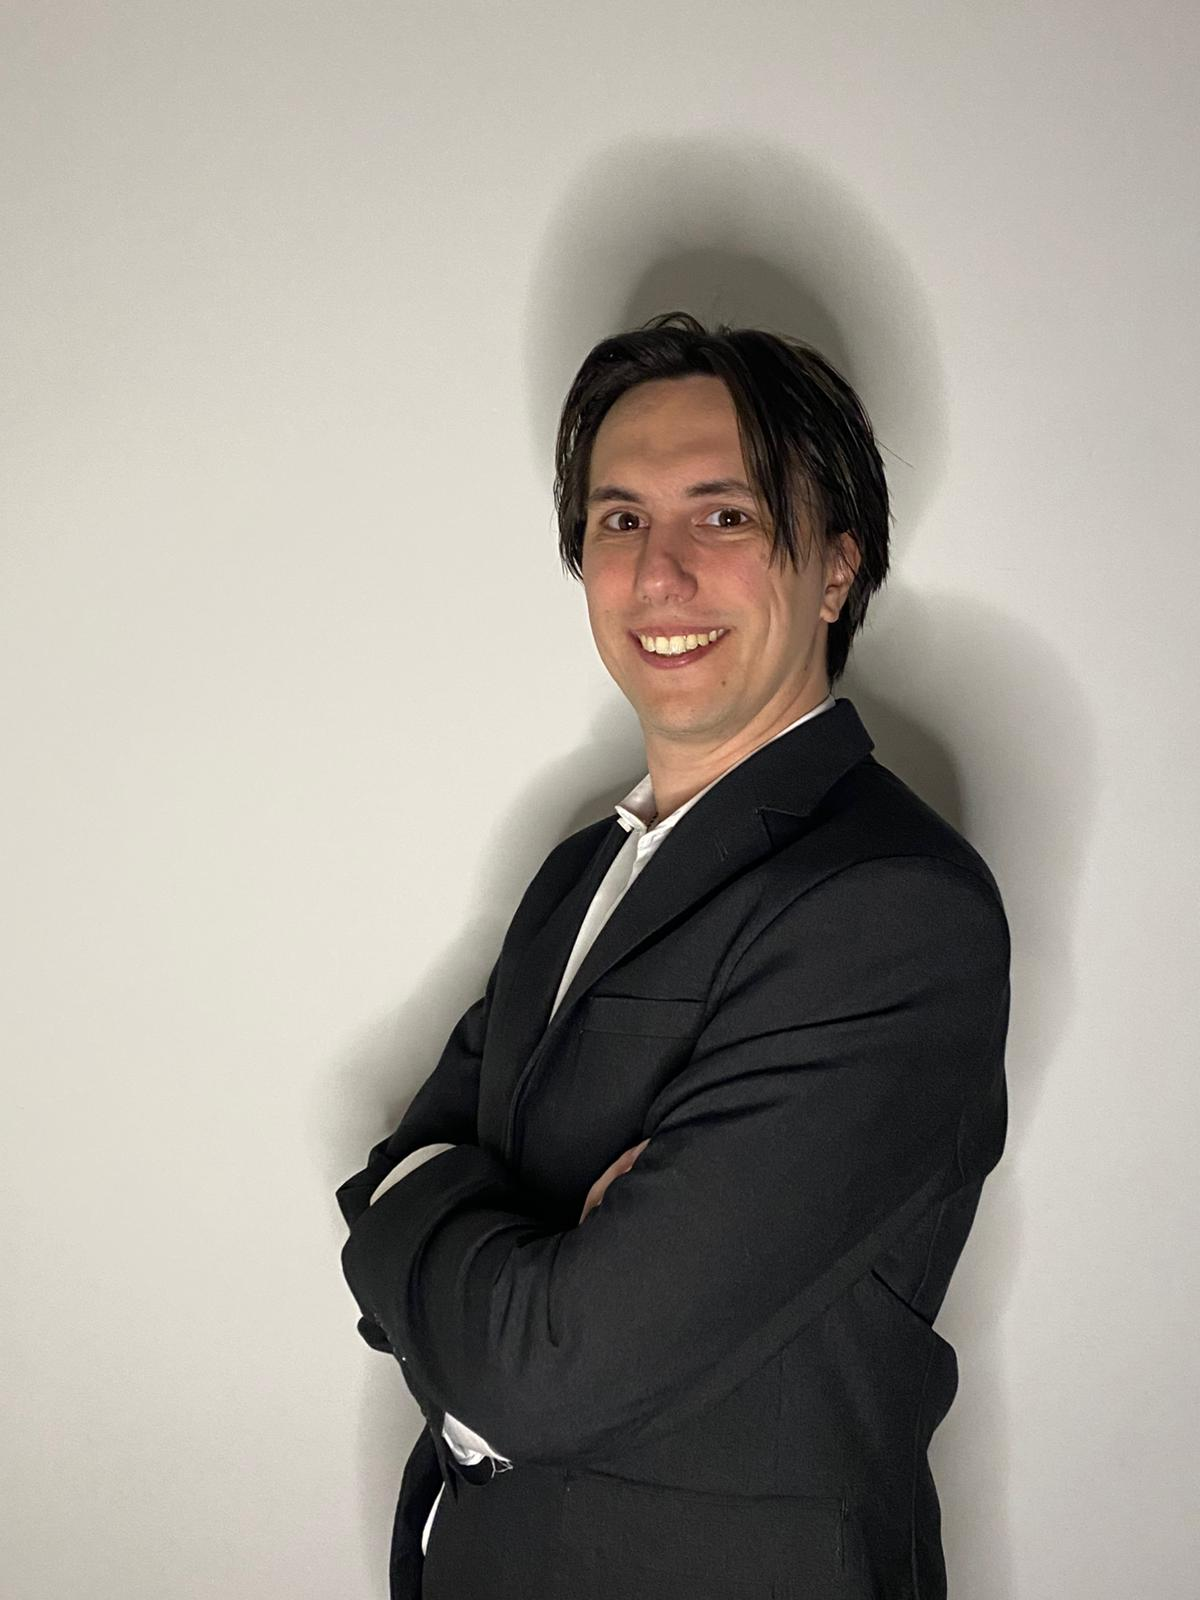
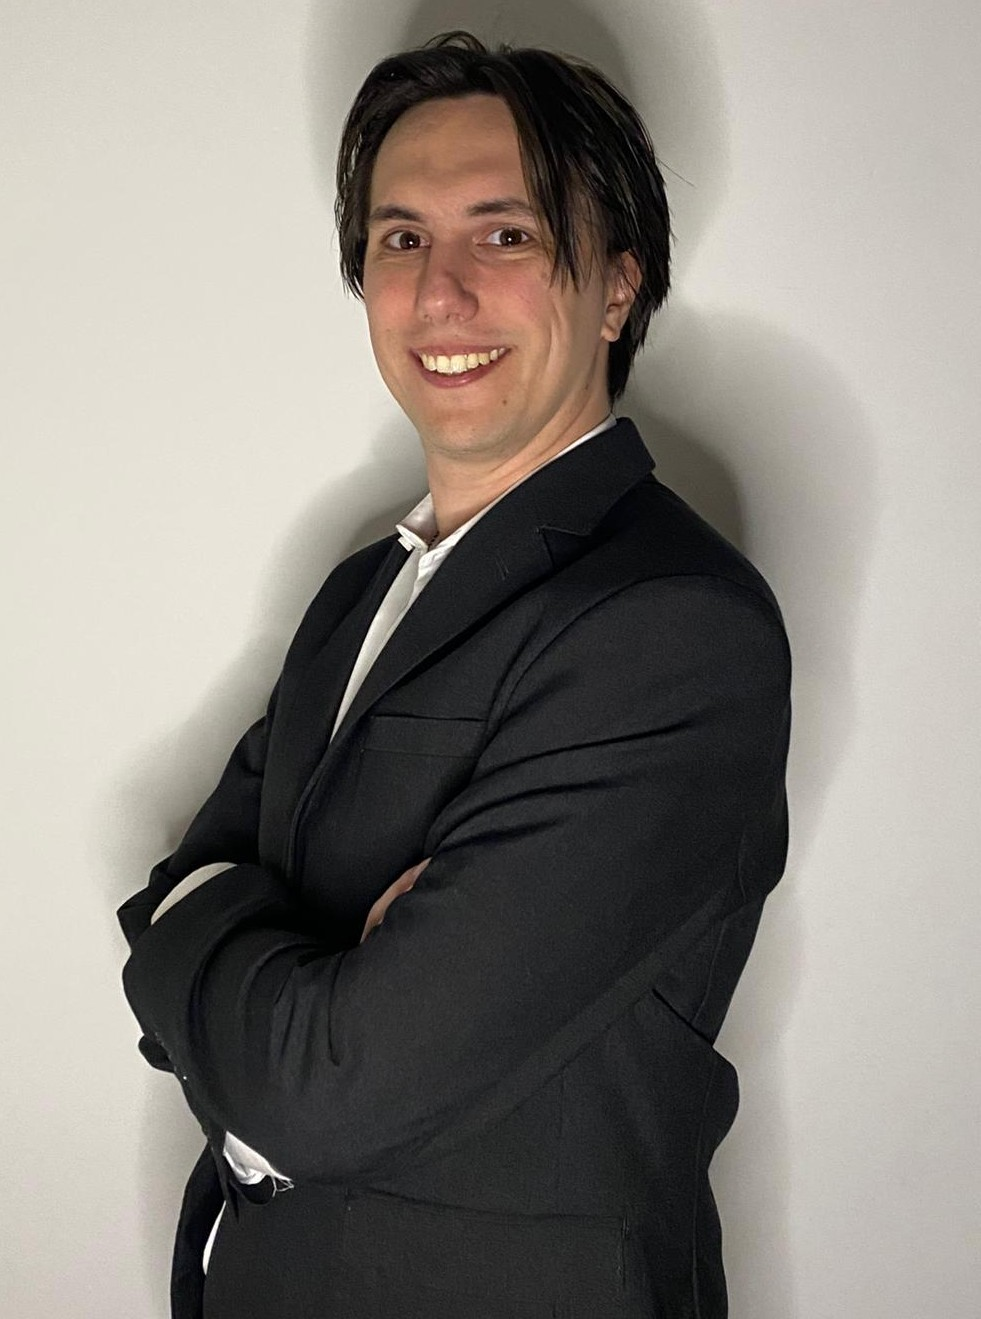
Correcciones CSS

diff --git a/styles.css b/styles.css
@@ -79,9 +79,8 @@ h1, h2, h3, h4, h5, h6 {
   object-fit: contain;
 }
 
-
 /* ===============================
-   carousel
+   Carrusel
    =============================== */
 /* Contenedor general: deja ver bordes laterales */
 .certs-wrapper{
@@ -108,7 +107,8 @@ h1, h2, h3, h4, h5, h6 {
 .certs-track{ scrollbar-width:none }
 
 /* Cada certificado ocupa ~80% para que se vea completo y los otros asomen */
-.certs-item, .cert-item{ scroll-snap-align:center }
+.cert-item { scroll-snap-align: center; }
+
 
 /* Tarjeta visual del certificado */
 .cert-item{
@@ -151,46 +151,12 @@ h1, h2, h3, h4, h5, h6 {
 
 /* Carrusel de certificados anclado a la izquierda del hero */
 .certs-wrapper.certs-left{
-  position: absolute;          /* dentro de .hero-portrait */
-  left: 2.5vw;
-  top: 50%;
-  transform: translateY(-50%);
-  z-index: 2;                  /* por debajo de la tarjeta central (z-index:3) */
-  width: clamp(260px, 24vw, 360px);
-  max-width: none;
-  padding: 0 1rem;             /* deja ver “siluetas” de los vecinos */
-  margin: 0;
-}
-
-/* Pista compacta para el modo izquierda */
-.certs-left .certs-track{
-  gap: 16px;
-  scroll-padding: 1rem;
-  padding-block: 6px;
-}
-
-/* Cada ítem ocupa casi todo el ancho para que se vea completo el central */
-.certs-left .cert-item{
-  width: calc(100% - 0.8rem);
-  max-width: none;
-  padding: 10px;
-}
-
-/* Alto del certificado (página completa sin recortar) */
-.certs-left .cert-item img{
-  height: clamp(240px, 48vh, 520px);
-  max-height: none;
-  object-fit: contain;
-}
-
-.certs-wrapper.certs-left{
   position:absolute; left:2.5vw; top:50%; transform:translateY(-50%);
   z-index:2; width:clamp(260px,24vw,360px); padding:0 1rem; margin:0; max-width:none;
 }
 .certs-left .certs-track{ gap:16px; scroll-padding:1rem; padding-block:6px;grid-auto-columns: 100%; }
 .certs-left .cert-item{ width:calc(100% - 0.8rem); max-width:none; padding:10px; }
 .certs-left .cert-item img{ height:clamp(240px,48vh,520px); max-height:none; object-fit:contain; }
-
 
 
 /* ===== Hero base ===== */
@@ -227,7 +193,35 @@ h1, h2, h3, h4, h5, h6 {
           mask-image: linear-gradient(90deg, transparent 0%, #000 12%, #000 88%, transparent 100%);
 }
 .spotlight-left { left: 2.5vw; }
+
 .spotlight-right{ right:2.5vw; }
+/* Desfase del carrusel derecho (empieza en la mitad del ciclo) */
+.spotlight-right .spot-track{
+  animation-delay: calc(var(--spot-duration) * -0.5);
+}
+/* (Opcional) pausar al pasar el mouse para mirar detalles */
+.spotlight .spot-track:hover{
+  animation-play-state: paused;
+  cursor: pointer;
+}
+/* ——— Sobre mí: scroll + respiración superior adaptable ——— */
+.spotlight-right .about-card--spotlight{
+  /* layout + scroll */
+  display: flex;
+  flex-direction: column;
+  justify-content: flex-start;
+  align-items: flex-start;
+  overflow-y: auto;
+  scrollbar-gutter: stable both-edges;
+
+  /* padding lateral/base */
+  padding-left: clamp(20px, 3.5vmin, 36px);
+  padding-right: clamp(20px, 3.5vmin, 36px);
+  padding-bottom: clamp(20px, 3.5vmin, 36px);
+
+  /* 👇 “aire” arriba que escala con la altura de la ventana */
+  padding-top: clamp(24px, 6vh, 48px);
+}
 
 .spot-track{
   position:absolute; left:0; top:0; height:100%;
@@ -258,37 +252,28 @@ h1, h2, h3, h4, h5, h6 {
 
 /* ===== Tarjeta central ===== */
 .hero-center{ position:absolute; inset:0; z-index:3;pointer-events: none; }
-.portrait-card{ width: clamp(260px, 26vw, 380px); border-radius:18px; overflow:hidden; background:#fff; }
+.portrait-card{
+  width: clamp(260px, 26vw, 380px);
+  border-radius:18px;
+  overflow:hidden;
+  background:#cec2c2;
+}
+
 .portrait-card figcaption{ background: rgba(16,56,102,.92); color:#fff; }
 
-/* ===== Mobile ===== */
-@media (max-width: 991.98px){
-  .hero-portrait{ height:auto; }
-}
-/* Desfase del carrusel derecho (empieza en la mitad del ciclo) */
-.spotlight-right .spot-track{
-  animation-delay: calc(var(--spot-duration) * -0.5);
-}
-
-/* FIX: que solo se vea 1 certificado al centro (y peeks a los lados) */
-.certs-left .certs-track{            /* tamaño de columna = ancho del contenedor */
+.certs-left .certs-track{
   grid-auto-columns: 100%;
 }
+
+.certs-left .cert-item{              /* el item ocupa toda la columna */
+  width: 100%;
+}
+
 @media (min-width: 1200px){
   .certs-left .certs-track{          /* deja un pequeño margen para el "peek" */
     grid-auto-columns: calc(100% - 1.2rem);
   }
 }
-.certs-left .cert-item{              /* el item ocupa toda la columna */
-  width: 100%;
-}
-
-/* (Opcional) pausar al pasar el mouse para mirar detalles */
-.spotlight .spot-track:hover{
-  animation-play-state: paused;
-  cursor: pointer;
-}
-
 /* —— Mobile-first del hero —— */
 @media (max-width: 991.98px){
   .hero-portrait{ height:auto; padding-bottom: 1rem; }
@@ -326,6 +311,53 @@ h1, h2, h3, h4, h5, h6 {
   border:1px solid var(--color-bordes);
   box-shadow: 0 8px 20px rgba(0,0,0,.25);
 }
+
+.portrait-card img {
+  max-height: 60vh;   /* ocupa como mucho 60% de la ventana */
+  object-fit: contain; /* evita cortes */
+}
+
+
+/* --- Sobre mí: scroll interno + “aire” arriba adaptativo --- */
+.about-card{
+  /* padding base (todo alrededor) */
+  --about-pad: clamp(24px, 4vw, 36px);
+  /* top por defecto = igual al padding base */
+  --about-pad-top: var(--about-pad);
+
+  padding: var(--about-pad-top) var(--about-pad);
+  overflow-y: auto;                 /* scroll si no entra */
+  scrollbar-gutter: stable both-edges; /* evita saltitos al aparecer la barra */
+}
+
+/* En escritorio MUY alto, agregá más margen arriba para que el título se lea cómodo */
+@media (min-width: 992px) and (min-height: 900px){
+  .about-card{
+    /* sumamos ~1.25rem arriba SIN tocar laterales/abajo */
+    --about-pad-top: calc(var(--about-pad) + 1.25rem);
+  }
+}
+
+
+
+
+/* En viewports bajos, reducí el aire para que entren los botones */
+@media (max-height: 560px){
+  .spotlight-right .about-card--spotlight{
+    padding-top: clamp(16px, 3vh, 24px);
+  }
+}
+
+/* (Opcional) scrollbar más discreta */
+.spotlight-right .about-card--spotlight::-webkit-scrollbar{ width: 10px }
+.spotlight-right .about-card--spotlight::-webkit-scrollbar-thumb{
+  background: rgba(255,255,255,.35);
+  border-radius: 8px;
+}
+.spotlight-right .about-card--spotlight::-webkit-scrollbar-track{
+  background: rgba(0,0,0,.15);
+}
+
 
 
 /* ===============================
@@ -367,6 +399,18 @@ h1, h2, h3, h4, h5, h6 {
 
 
 /* ===============================
+   Accesibilidad
+   =============================== */
+
+a:focus-visible,
+button:focus-visible,
+.btn:focus-visible {
+  outline: 2px solid var(--color-acento);
+  outline-offset: 2px;
+}
+
+
+/* ===============================
    footer
    =============================== */
 footer {
@@ -384,25 +428,22 @@ footer {
 }
 
 /* Hacer la tarjeta más sólida, con más aire interno y borde blanco */
-.about-card {
+.about-card--spotlight {
   position: absolute;
-  inset: 0;                          /* ocupa todo el spotlight */
+  inset: 0;
   display: flex;
   flex-direction: column;
   justify-content: center;
-
-  /* más “aire” para que el texto no quede pegado a los bordes */
   padding: clamp(24px, 4vw, 36px);
-
   color: #fff;
-  background: rgba(16,56,102,0.92);  /* fondo sólido */
-  border: 2px solid #fff;            /* borde blanco claro */
+  background: rgba(16,56,102,0.92);
+  border: 2px solid #fff;
   border-radius: 16px;
   box-shadow: 0 12px 28px rgba(0,0,0,.45);
-
   pointer-events: auto;
   z-index: 3;
 }
+
 
 .about-card h2 { text-shadow: 0 1px 2px rgba(0,0,0,.45); }
 .about-card p  { line-height: 1.55; margin-bottom: .75rem; }
@@ -486,10 +527,14 @@ footer {
 /* Respeto a usuarios con “reducir movimiento” */
 @media (prefers-reduced-motion: reduce){
   .card.border-animado,
-  .card.border-animado-dorado{
-    animation: none;
+  .card.border-animado-dorado,
+  .hero-bg-belt .belt,   /* ← apaga el scroll del fondo */
+  .spot-track{           /* ← apaga el pase de los spotlights */
+    animation: none !important;
+    animation-delay: 0s !important;
   }
 }
+
 
 
 

diff --git a/index.html b/index.html
@@ -163,7 +163,7 @@
 
 <!-- SPOTLIGHT LATERAL DERECHO (tarjeta Sobre mí encima del fondo de certificados) -->
 <div class="spotlight spotlight-right d-none d-lg-block">
-  <article class="about-card" role="region" aria-label="Sobre mí">
+  <article class="about-card about-card--spotlight" role="region" aria-label="Sobre mí">
     <h2 class="h5 fw-bold mb-2">Sobre mí</h2>
     <p class="mb-2">
       Soy estudiante de <strong>Ingeniería en Sistemas</strong> en la <strong>Universidad ORT Uruguay</strong>,
